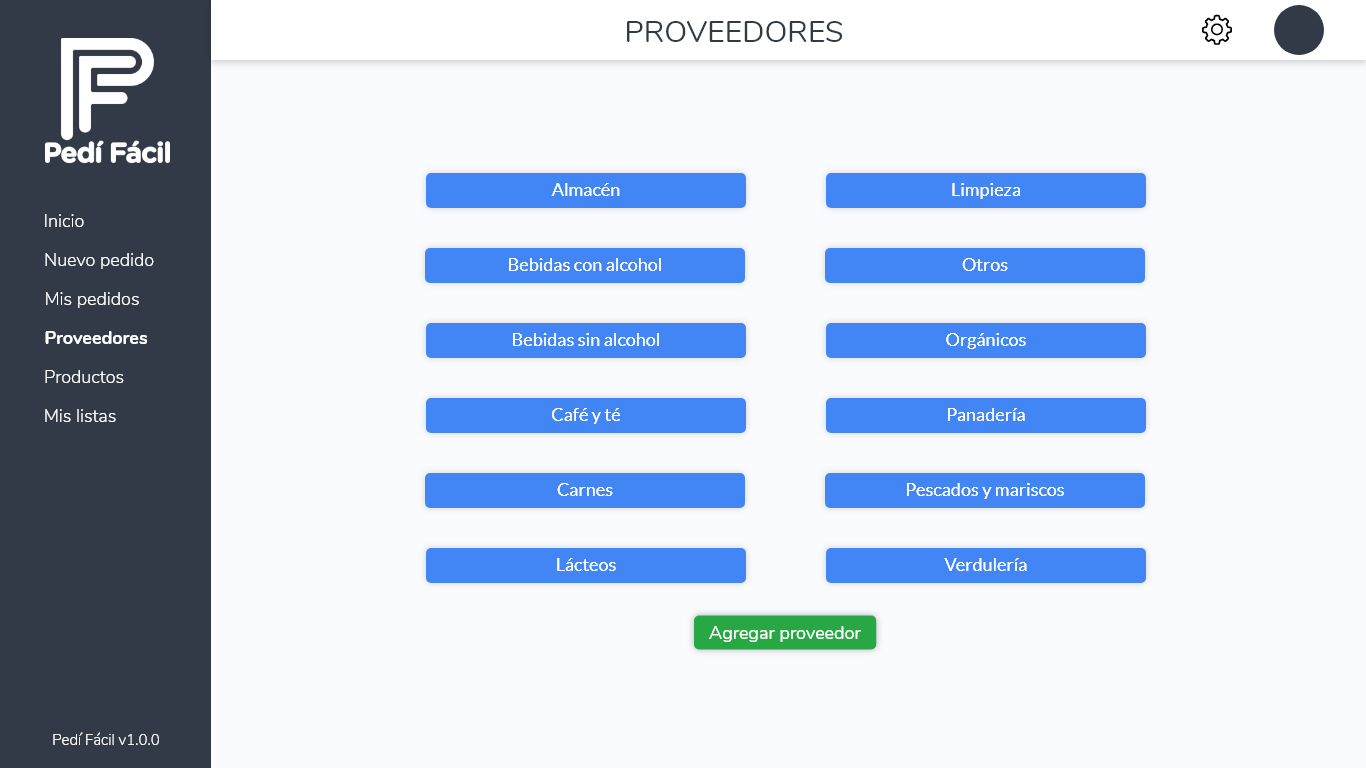
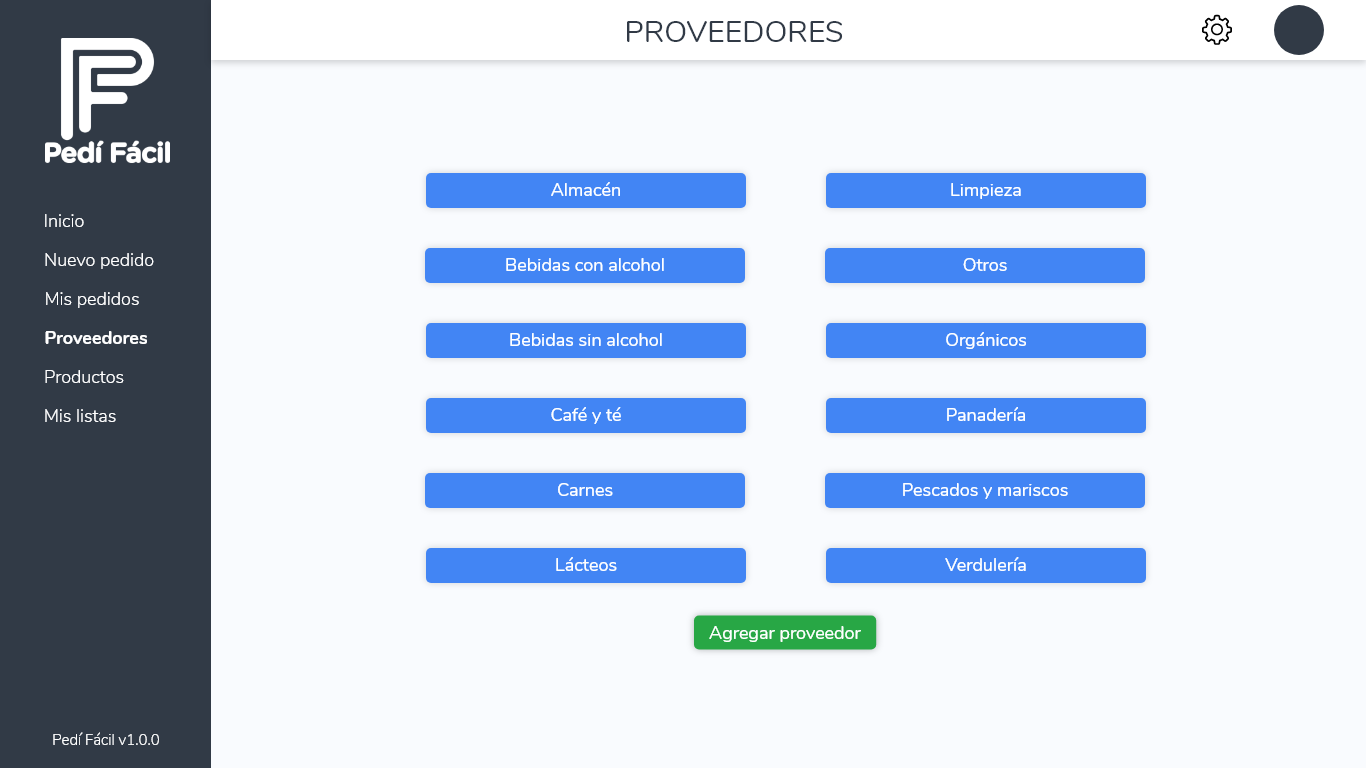
Sprint 1

diff --git a/README.md b/README.md
@@ -90,8 +90,8 @@
 * [Adobe XD link](https://xd.adobe.com/view/545bda9a-3633-4921-74ae-28f225b380b4-226a/)
 
 ### Tipografía
-* [Lato](https://fonts.google.com/specimen/Lato)
 * [Montserrat](https://fonts.google.com/specimen/Montserrat)
+* [Nunito](https://fonts.google.com/specimen/Nunito)
 
 ### Paleta de colores
 ![Color Palette Pedí Fácil](design/images/README_colorPalette.svg)
